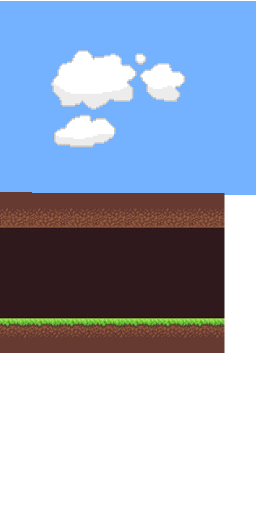
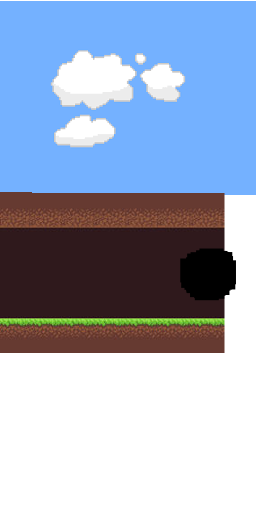
Added basic version of visibility

Changed region(s): [[0.6875, 0.4688, 0.9375, 0.5938]]

diff --git a/core/src/tiko/coregames/drilltothecore/objects/Player.java b/core/src/tiko/coregames/drilltothecore/objects/Player.java
@@ -5,7 +5,10 @@ import com.badlogic.gdx.Input;
 import com.badlogic.gdx.maps.tiled.TiledMapTile;
 import com.badlogic.gdx.maps.tiled.TiledMapTileLayer;
 import com.badlogic.gdx.graphics.g2d.SpriteBatch;
+import com.badlogic.gdx.math.Circle;
+import com.badlogic.gdx.math.Vector2;
 import com.badlogic.gdx.math.Vector3;
+import com.badlogic.gdx.utils.Array;
 import tiko.coregames.drilltothecore.managers.ControllerManager;
 import tiko.coregames.drilltothecore.managers.LevelManager;
 
@@ -13,7 +16,9 @@ import static tiko.coregames.drilltothecore.utilities.Utilities.*;
 
 public class Player extends BaseObject {
     private ControllerManager controller;
+
     private float totalFuel, fuelConsumptionRate;
+    private Circle vision;
 
     public Player() {
         super("images/player.png");
@@ -21,11 +26,11 @@ public class Player extends BaseObject {
 
         controller.setXThreshold(DEFAULT_MIN_THRESHOLD, DEFAULT_MIN_THRESHOLD);
         controller.setYThreshold(DEFAULT_MIN_THRESHOLD, DEFAULT_MIN_THRESHOLD);
-
         Vector3 playerSpawn = LevelManager.getSpawnPoint("player");
 
         if (playerSpawn != null) {
             setPosition(playerSpawn.x, playerSpawn.y);
+            vision = new Circle(playerSpawn.x, playerSpawn.y, getWidth() * 2);
         }
 
         setMaxFuel();
@@ -55,8 +60,32 @@ public class Player extends BaseObject {
         return value == null || !value;
     }
 
+    private Array<Vector2> getPointsFromVision() {
+        Array<Vector2> points = new Array<>();
+
+        for (float i = vision.y - vision.radius; i < vision.y + vision.radius; i++) {
+            for (float j = vision.x; Math.pow(j - vision.x, 2) + Math.pow(i - vision.y, 2) <= Math.pow(vision.radius, 2); j--) {
+                points.add(new Vector2(j, i));
+            }
+            for (float j = vision.x + 1; (j - vision.x) * (j - vision.x) + (i - vision.y) * (i - vision.y) <= Math.pow(vision.radius, 2); j++) {
+                points.add(new Vector2(j, i));
+            }
+        }
+
+        return points;
+    }
+
     // DEBUG - Destroy tiles
     private void updateTileStatus() {
+        vision.setPosition(getX(), getY());
+        for (Vector2 vector : getPointsFromVision()) {
+            TiledMapTileLayer.Cell cell = LevelManager.getCellFromPosition(vector.x, vector.y, "shroud");
+
+            if (cell != null) {
+                cell.setTile(null);
+            }
+        }
+
         TiledMapTileLayer.Cell[] cells = new TiledMapTileLayer.Cell[] {
             LevelManager.getCellFromPosition(getX() + getWidth() / 2, getY(), "ground"),
             LevelManager.getCellFromPosition(getX() + getWidth() / 2, getY() + getHeight(), "ground"),

diff --git a/core/src/tiko/coregames/drilltothecore/screens/SplashScreen.java b/core/src/tiko/coregames/drilltothecore/screens/SplashScreen.java
@@ -40,7 +40,6 @@ public class SplashScreen extends BaseScreen {
         timeLeft -= delta;
 
         if (timeLeft <= 0) {
-            timeLeft = INTRO_DURATION;
             splash.removeIndex(0);
             stage.clear();
 
@@ -48,6 +47,8 @@ public class SplashScreen extends BaseScreen {
                 CoreSetup.nextScreen(new MainMenuScreen());
                 return;
             }
+
+            timeLeft = INTRO_DURATION;
         }
 
         stage.addActor(splash.first());

diff --git a/core/src/tiko/coregames/drilltothecore/objects/BaseObject.java b/core/src/tiko/coregames/drilltothecore/objects/BaseObject.java
@@ -1,6 +1,5 @@
 package tiko.coregames.drilltothecore.objects;
 
-import com.badlogic.gdx.Gdx;
 import com.badlogic.gdx.graphics.Texture;
 import com.badlogic.gdx.graphics.g2d.Sprite;
 import com.badlogic.gdx.utils.Disposable;
